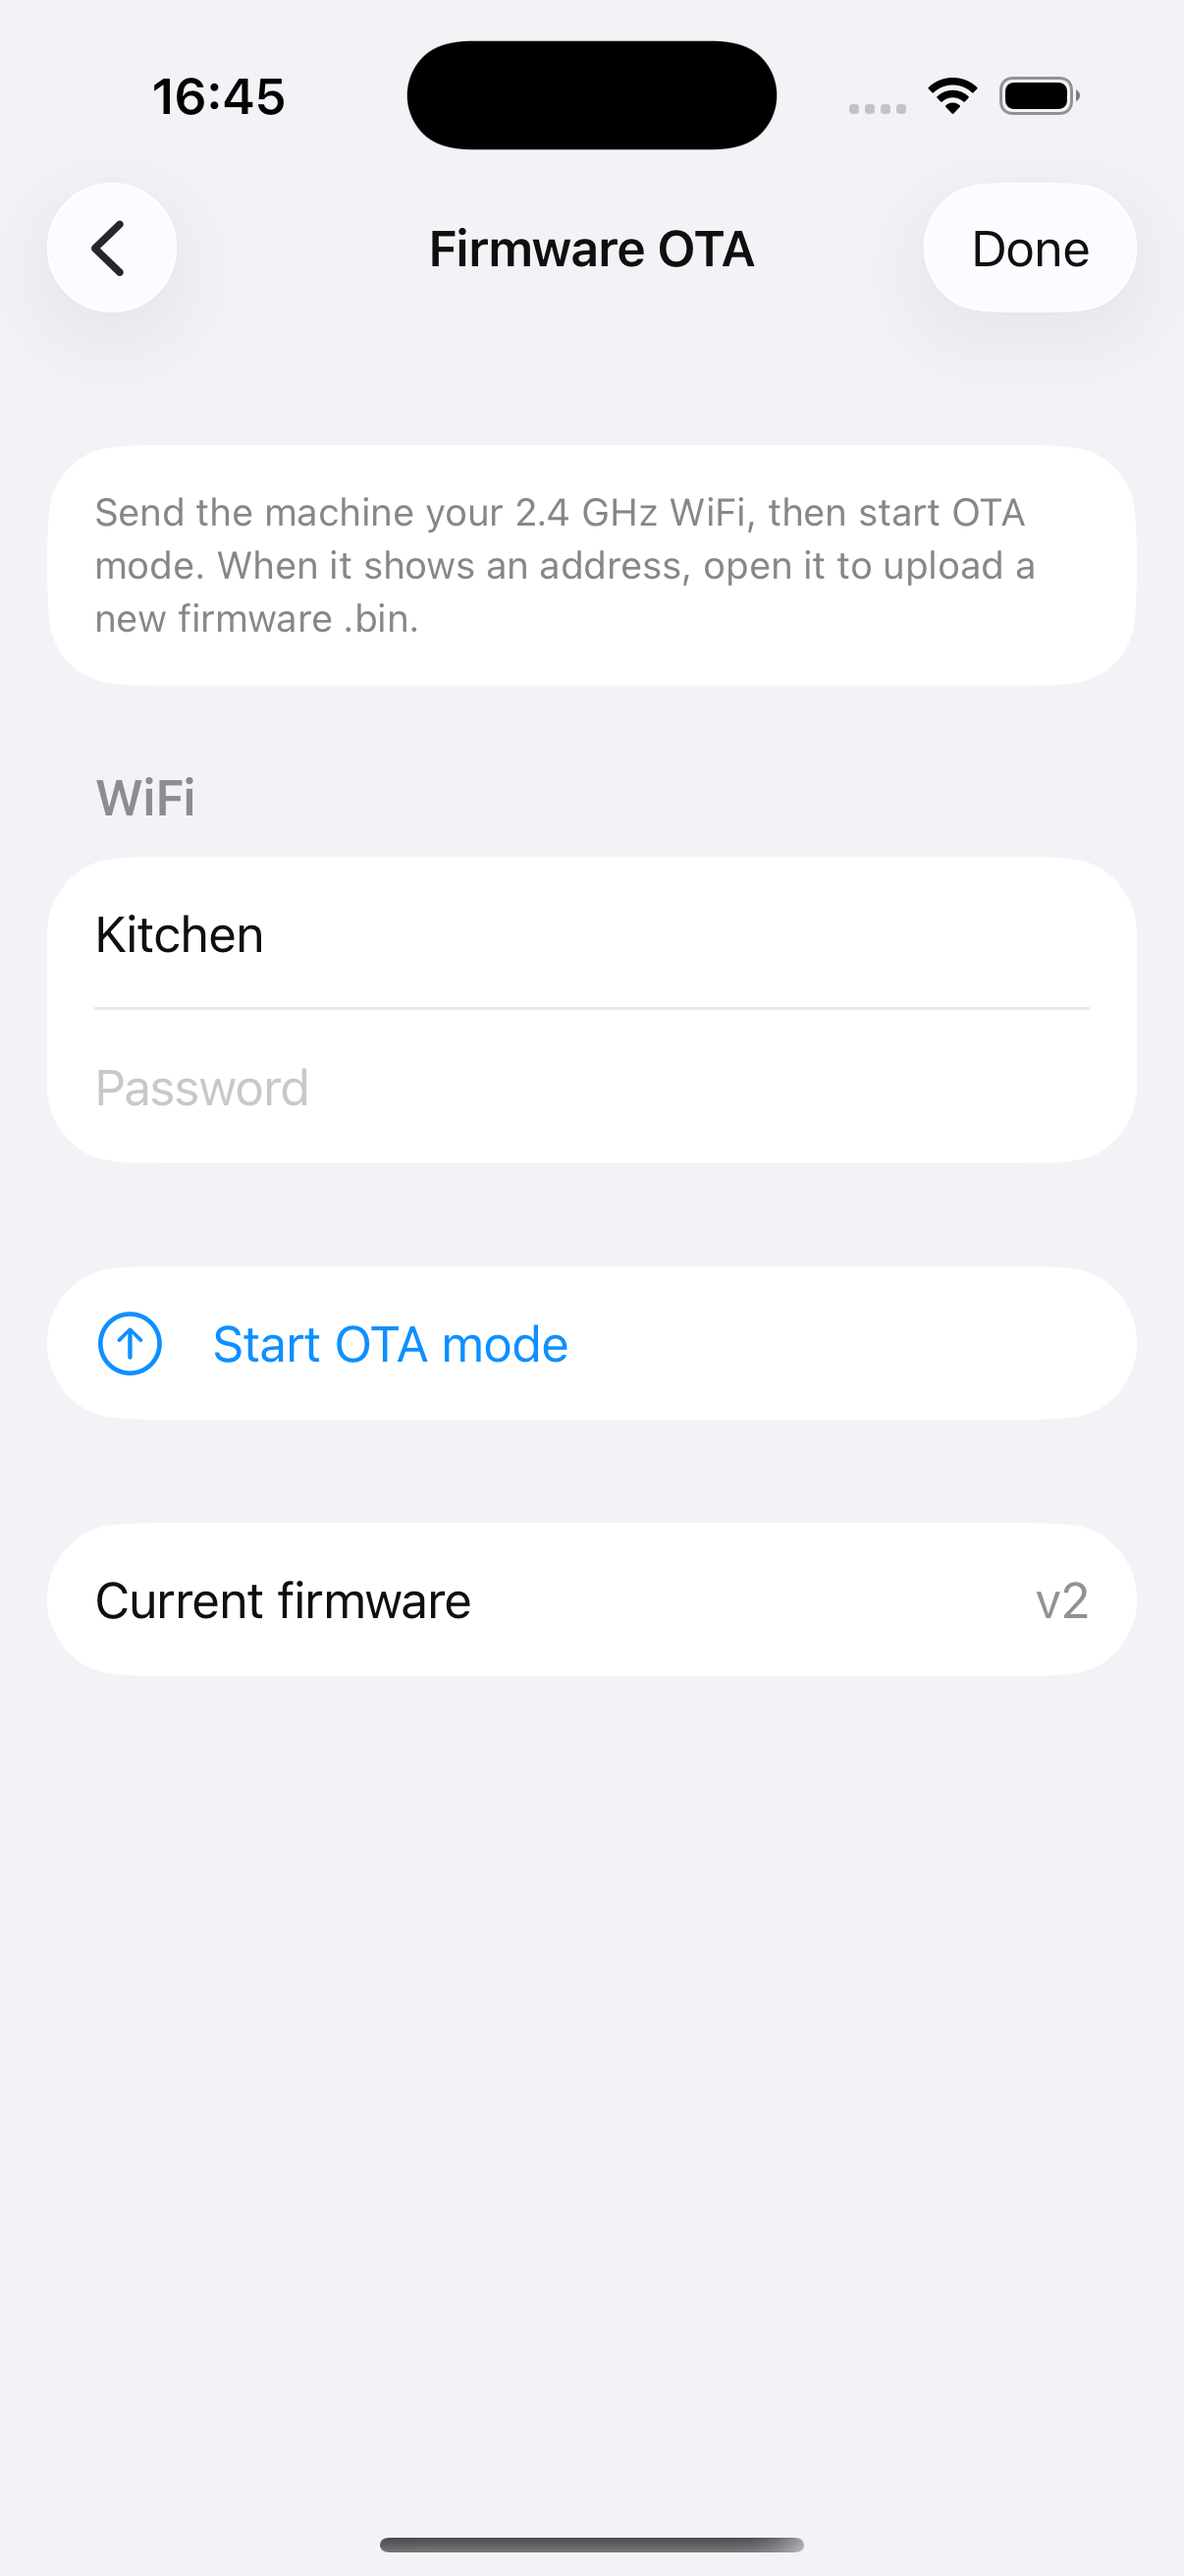
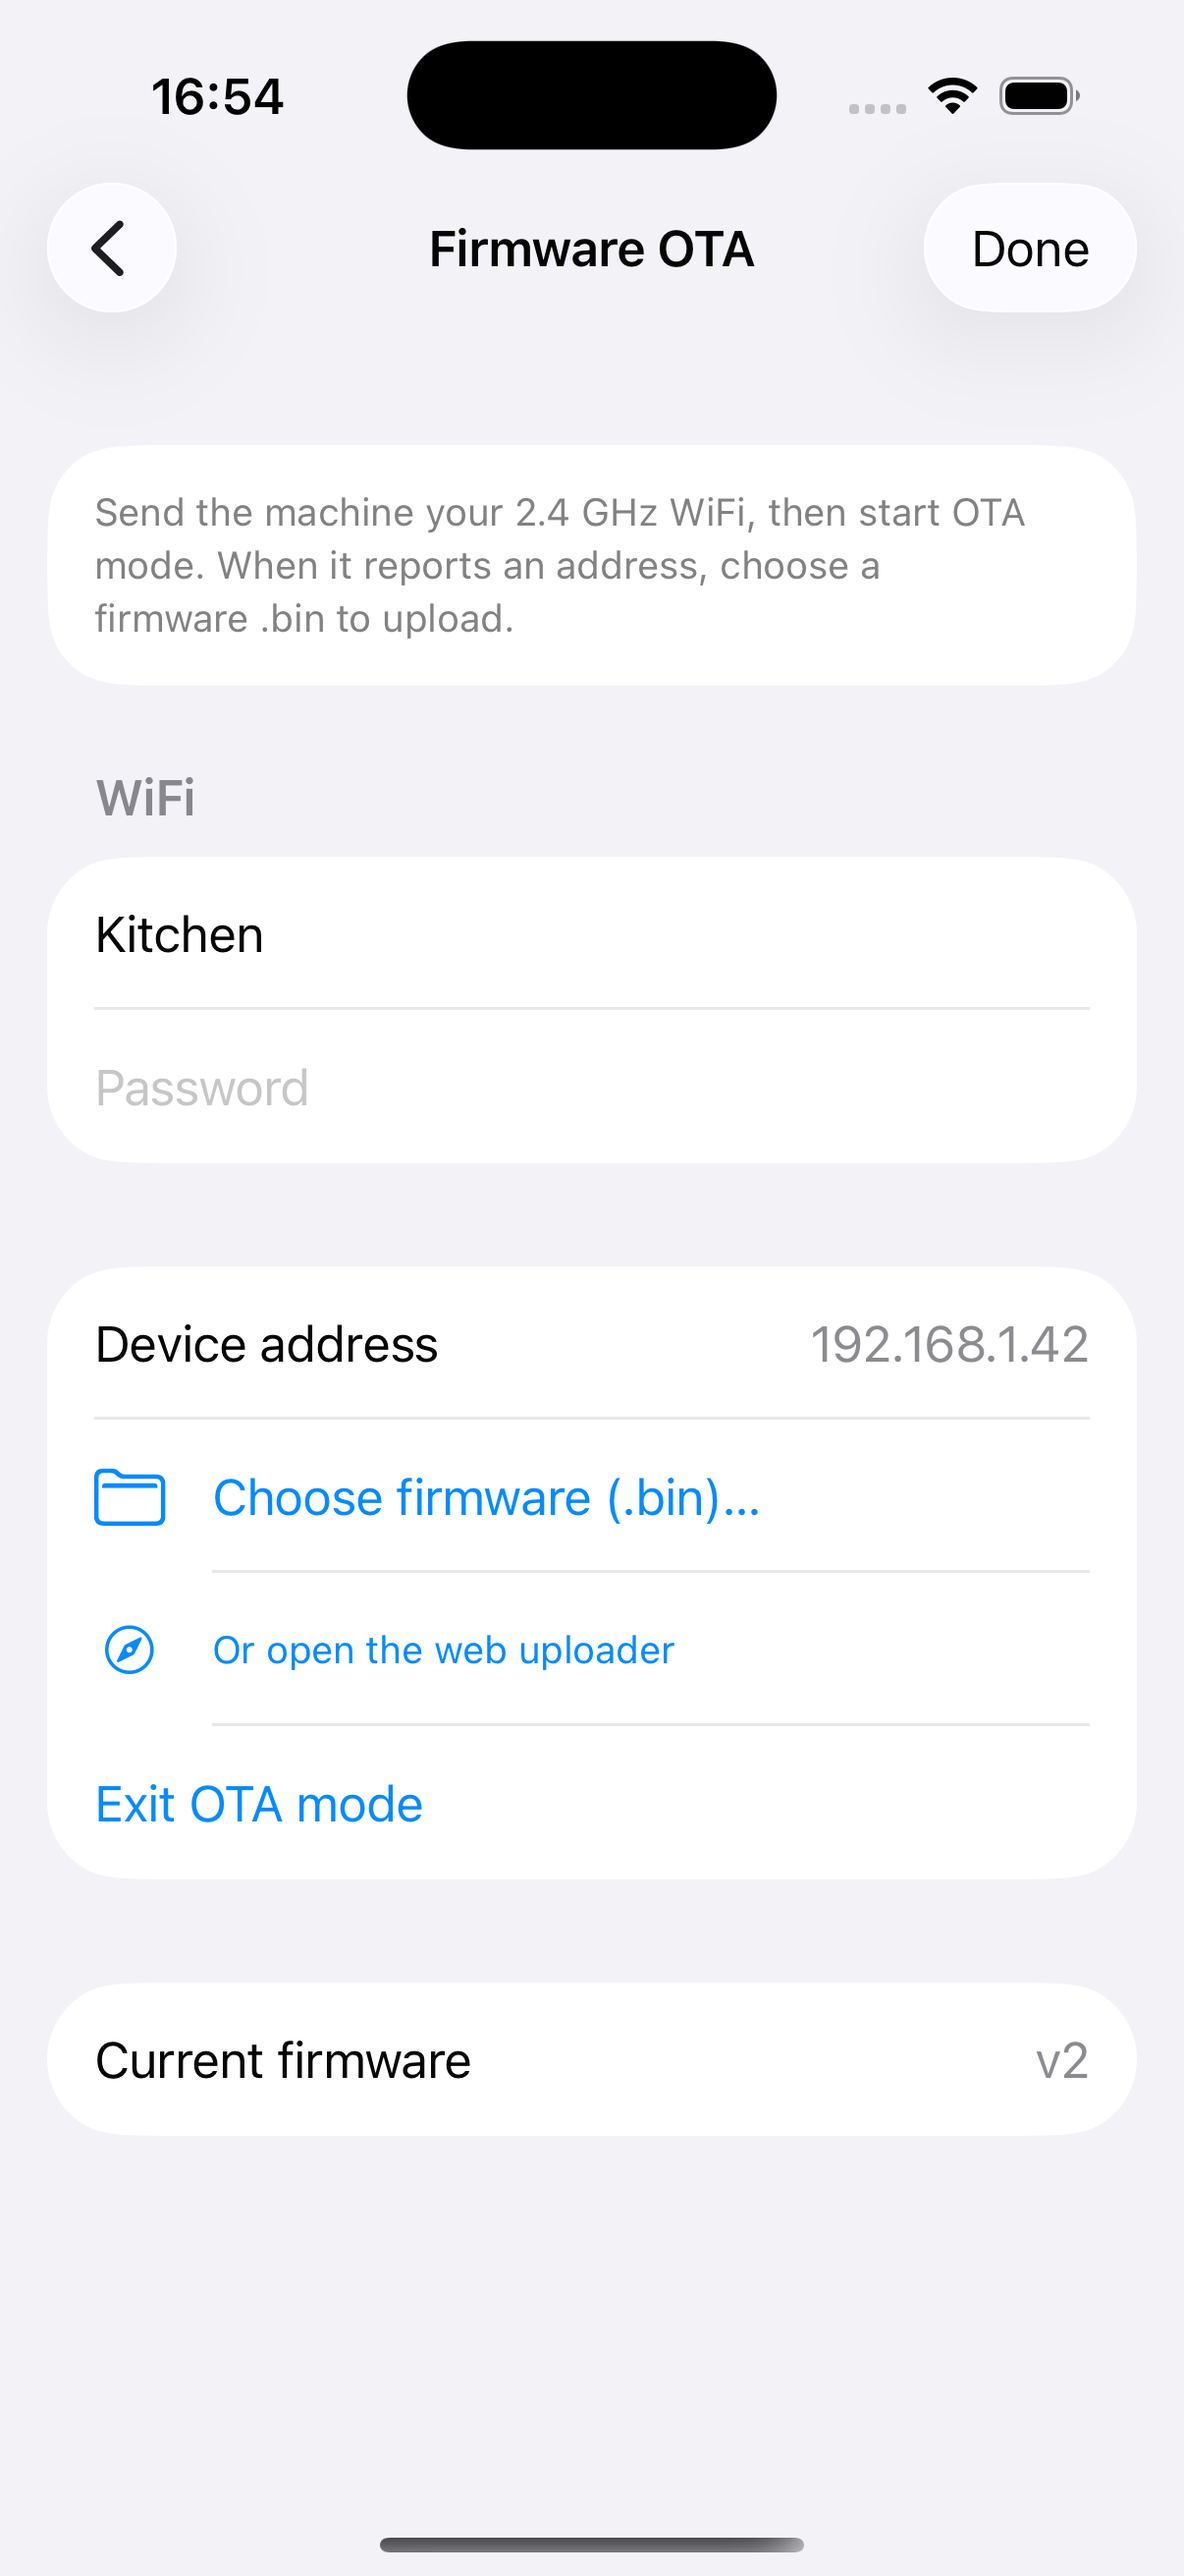
OTA: true in-app .bin upload from Files / iCloud Drive
- FirmwareUploader: builds the multipart/form-data body and POSTs the .bin to
  http://<device-ip>/update (the field name `update` the firmware expects),
  with upload progress via URLSessionTaskDelegate.
- OTAView: once the device reports its IP, pick a .bin via .fileImporter
  (Files / iCloud Drive) and upload in-app with progress + success/failure
  states; the browser uploader remains as a fallback.
- Info.plist: NSAllowsLocalNetworking + NSLocalNetworkUsageDescription so iOS
  permits the local-network HTTP upload (merged with the generated plist).
- multipartBody is nonisolated + unit-tested (smoke + 2 XCTest, 17 total).

Both targets build; app launches correctly (Info.plist merge verified). The
actual upload needs hardware/local WiFi; the multipart framing is tested.

diff --git a/app/ShotStopperTelemetry/OTAView.swift b/app/ShotStopperTelemetry/OTAView.swift
@@ -1,10 +1,10 @@
 import SwiftUI
+import UniformTypeIdentifiers
 import ShotTelemetryKit
 
-/// Firmware OTA flow. The firmware's updater is a WiFi web upload: we send the
-/// machine WiFi credentials and ask it to enter OTA mode; it joins the network,
-/// hosts an uploader, and reports its IP. The user then opens that page and
-/// uploads the new `.bin` from a browser.
+/// Firmware OTA flow. Send the machine WiFi credentials and ask it to enter OTA
+/// mode; it joins the network and reports its IP. Then pick a `.bin` from Files /
+/// iCloud Drive and the app uploads it straight to the device — no browser needed.
 struct OTAView: View {
     @Environment(AppModel.self) private var model
     @Environment(\.dismiss) private var dismiss
@@ -12,12 +12,16 @@ struct OTAView: View {
 
     @State private var ssid = ""
     @State private var password = ""
+    @State private var uploader = FirmwareUploader()
+    @State private var showImporter = false
+
+    private var deviceIP: String { client.settings.wifiIP }
 
     var body: some View {
         Form {
             Section {
                 Text("Send the machine your 2.4 GHz WiFi, then start OTA mode. "
-                     + "When it shows an address, open it to upload a new firmware .bin.")
+                     + "When it reports an address, choose a firmware .bin to upload.")
                     .font(.footnote)
                     .foregroundStyle(.secondary)
             }
@@ -28,20 +32,15 @@ struct OTAView: View {
                     .autocorrectionDisabled()
                 SecureField("Password", text: $password)
             }
+            .disabled(client.settings.otaRequested)
 
             Section {
                 if client.settings.otaRequested {
-                    if client.settings.wifiIP.isEmpty {
-                        HStack {
-                            ProgressView()
-                            Text("Connecting to WiFi…").foregroundStyle(.secondary)
-                        }
-                    } else if let url = URL(string: "http://\(client.settings.wifiIP)/") {
-                        Link(destination: url) {
-                            Label("Open uploader  (\(client.settings.wifiIP))", systemImage: "safari")
-                        }
+                    activeOTASection
+                    Button("Exit OTA mode", role: .cancel) {
+                        uploader.reset()
+                        client.setOTARequested(false)
                     }
-                    Button("Exit OTA mode", role: .cancel) { client.setOTARequested(false) }
                 } else {
                     Button {
                         client.setWiFi(ssid: ssid, password: password)
@@ -64,6 +63,61 @@ struct OTAView: View {
                 Button("Done") { dismiss() }
             }
         }
+        .fileImporter(isPresented: $showImporter, allowedContentTypes: binTypes) { result in
+            if case .success(let url) = result {
+                Task { await uploader.upload(fileURL: url, toIP: deviceIP) }
+            }
+        }
         .onAppear { ssid = client.settings.wifiSSID }
+    }
+
+    @ViewBuilder
+    private var activeOTASection: some View {
+        if deviceIP.isEmpty {
+            HStack {
+                ProgressView()
+                Text("Connecting to WiFi…").foregroundStyle(.secondary)
+            }
+        } else {
+            LabeledContent("Device address", value: deviceIP)
+
+            switch uploader.status {
+            case .idle:
+                Button {
+                    showImporter = true
+                } label: {
+                    Label("Choose firmware (.bin)…", systemImage: "folder")
+                }
+                if let url = URL(string: "http://\(deviceIP)/") {
+                    Link(destination: url) {
+                        Label("Or open the web uploader", systemImage: "safari")
+                            .font(.footnote)
+                    }
+                }
+
+            case .uploading(let fraction):
+                VStack(alignment: .leading, spacing: 6) {
+                    ProgressView(value: fraction)
+                    Text("Uploading… \(Int(fraction * 100))%")
+                        .font(.footnote).foregroundStyle(.secondary)
+                }
+
+            case .success:
+                Label("Update sent — the machine is restarting.", systemImage: "checkmark.circle.fill")
+                    .foregroundStyle(.green)
+
+            case .failed(let message):
+                VStack(alignment: .leading, spacing: 6) {
+                    Label("Upload failed", systemImage: "exclamationmark.triangle.fill")
+                        .foregroundStyle(.orange)
+                    Text(message).font(.footnote).foregroundStyle(.secondary)
+                    Button("Try again") { showImporter = true }
+                }
+            }
+        }
+    }
+
+    private var binTypes: [UTType] {
+        [UTType(filenameExtension: "bin") ?? .data, .data]
     }
 }

diff --git a/app/ShotTelemetryKit/Sources/ShotTelemetryKit/FirmwareUploader.swift b/app/ShotTelemetryKit/Sources/ShotTelemetryKit/FirmwareUploader.swift
@@ -1,0 +1,93 @@
+import Foundation
+
+/// Uploads a firmware `.bin` to the ShotStopper's web updater over local WiFi.
+///
+/// The firmware (OTASetup.h) hosts a multipart form POST at `/update` with the
+/// file field named `update` — the same upload its browser uploader does, just
+/// driven from the app so no browser is needed.
+@MainActor
+@Observable
+public final class FirmwareUploader: NSObject {
+
+    public enum Status: Equatable {
+        case idle
+        case uploading(Double)   // 0...1
+        case success
+        case failed(String)
+    }
+
+    public private(set) var status: Status = .idle
+
+    public func reset() { status = .idle }
+
+    /// POST the file at `fileURL` to `http://<ip>/update`. `fileURL` is typically a
+    /// security-scoped URL from the Files picker (iCloud Drive).
+    public func upload(fileURL: URL, toIP ip: String) async {
+        status = .uploading(0)
+
+        let scoped = fileURL.startAccessingSecurityScopedResource()
+        defer { if scoped { fileURL.stopAccessingSecurityScopedResource() } }
+
+        guard let fileData = try? Data(contentsOf: fileURL) else {
+            status = .failed("Couldn't read the selected file.")
+            return
+        }
+        guard !ip.isEmpty, let url = URL(string: "http://\(ip)/update") else {
+            status = .failed("The device hasn't reported an address yet.")
+            return
+        }
+
+        let boundary = "ShotStopperBoundary-\(UUID().uuidString)"
+        let body = Self.multipartBody(boundary: boundary, fieldName: "update",
+                                      fileName: fileURL.lastPathComponent, fileData: fileData)
+
+        var request = URLRequest(url: url)
+        request.httpMethod = "POST"
+        request.setValue("multipart/form-data; boundary=\(boundary)", forHTTPHeaderField: "Content-Type")
+        request.timeoutInterval = 180
+
+        do {
+            let (_, response) = try await URLSession.shared.upload(for: request, from: body, delegate: self)
+            if let http = response as? HTTPURLResponse, !(200..<300).contains(http.statusCode) {
+                status = .failed("Device returned HTTP \(http.statusCode).")
+            } else {
+                status = .success
+            }
+        } catch {
+            // A dropped connection right after the upload often means the device
+            // accepted it and rebooted; surface the raw error so the user can retry.
+            status = .failed(error.localizedDescription)
+        }
+    }
+
+    /// Build a `multipart/form-data` body for a single file field. Pure + testable.
+    public nonisolated static func multipartBody(boundary: String, fieldName: String, fileName: String, fileData: Data) -> Data {
+        var body = Data()
+        body.appendString("--\(boundary)\r\n")
+        body.appendString("Content-Disposition: form-data; name=\"\(fieldName)\"; filename=\"\(fileName)\"\r\n")
+        body.appendString("Content-Type: application/octet-stream\r\n\r\n")
+        body.append(fileData)
+        body.appendString("\r\n--\(boundary)--\r\n")
+        return body
+    }
+}
+
+extension FirmwareUploader: URLSessionTaskDelegate {
+    public nonisolated func urlSession(
+        _ session: URLSession,
+        task: URLSessionTask,
+        didSendBodyData bytesSent: Int64,
+        totalBytesSent: Int64,
+        totalBytesExpectedToSend: Int64
+    ) {
+        guard totalBytesExpectedToSend > 0 else { return }
+        let fraction = Double(totalBytesSent) / Double(totalBytesExpectedToSend)
+        MainActor.assumeIsolated {
+            if case .uploading = status { status = .uploading(fraction) }
+        }
+    }
+}
+
+private extension Data {
+    mutating func appendString(_ string: String) { append(Data(string.utf8)) }
+}

diff --git a/app/ShotTelemetryKit/Tests/ShotTelemetryKitTests/FirmwareUploaderTests.swift b/app/ShotTelemetryKit/Tests/ShotTelemetryKitTests/FirmwareUploaderTests.swift
@@ -1,0 +1,25 @@
+import XCTest
+@testable import ShotTelemetryKit
+
+final class FirmwareUploaderTests: XCTestCase {
+
+    func testMultipartBodyFraming() {
+        let payload = Data([0x01, 0x02, 0x03, 0xFF])
+        let body = FirmwareUploader.multipartBody(
+            boundary: "BND", fieldName: "update", fileName: "fw.bin", fileData: payload)
+        let text = String(decoding: body, as: UTF8.self)
+
+        XCTAssertTrue(text.hasPrefix("--BND\r\n"))
+        XCTAssertTrue(text.contains("Content-Disposition: form-data; name=\"update\"; filename=\"fw.bin\""))
+        XCTAssertTrue(text.contains("Content-Type: application/octet-stream\r\n\r\n"))
+        XCTAssertTrue(text.hasSuffix("\r\n--BND--\r\n"))
+    }
+
+    func testMultipartBodyEmbedsRawBytes() {
+        let payload = Data([0xDE, 0xAD, 0xBE, 0xEF])
+        let body = FirmwareUploader.multipartBody(
+            boundary: "B", fieldName: "update", fileName: "f.bin", fileData: payload)
+        // The 4 payload bytes appear contiguously somewhere in the body.
+        XCTAssertNotNil(body.range(of: payload))
+    }
+}

diff --git a/app/ShotTelemetryKit/Smoke/main.swift b/app/ShotTelemetryKit/Smoke/main.swift
@@ -108,5 +108,17 @@ do {
     check(back == shots, "bulk JSON array round-trips")
 }
 
+print("FirmwareUploader")
+do {
+    let payload = Data([0xDE, 0xAD, 0xBE, 0xEF])
+    let body = FirmwareUploader.multipartBody(boundary: "B", fieldName: "update", fileName: "fw.bin", fileData: payload)
+    let text = String(decoding: body, as: UTF8.self)
+    check(text.hasPrefix("--B\r\n"), "multipart starts with boundary")
+    check(text.contains("name=\"update\"; filename=\"fw.bin\""), "multipart has field + filename")
+    check(text.contains("Content-Type: application/octet-stream"), "multipart declares octet-stream")
+    check(text.hasSuffix("\r\n--B--\r\n"), "multipart ends with closing boundary")
+    check(body.contains(0xDE) && body.contains(0xEF), "multipart embeds the file bytes")
+}
+
 print(failures == 0 ? "\nALL PASSED" : "\n\(failures) FAILED")
 exit(failures == 0 ? 0 : 1)

diff --git a/app/ShotTelemetryKit/Sources/ShotTelemetryKit/ShotStopperClient.swift b/app/ShotTelemetryKit/Sources/ShotTelemetryKit/ShotStopperClient.swift
@@ -102,7 +102,8 @@ public final class ShotStopperClient: NSObject {
         var s = DeviceSettings()
         s.enabled = true; s.goalWeightG = 36; s.autoTare = true; s.momentary = false
         s.minShotDurationS = 5; s.maxShotDurationS = 50; s.dripDelayS = 3
-        s.firmwareVersion = 2; s.wifiSSID = "Kitchen"; s.wifiIP = ""
+        s.firmwareVersion = 2; s.wifiSSID = "Kitchen"
+        s.otaRequested = true; s.wifiIP = "192.168.1.42" // show the OTA upload UI in the Simulator
         settings = s
     }
 #endif

diff --git a/app/screenshots/README.md b/app/screenshots/README.md
@@ -12,7 +12,7 @@ device name and live data). Shot data here is from the built-in demo simulator.
 | `ios-3-history.png` | iPhone · History | List of saved shots (date · final weight · duration · target). Toolbar: Export (share) + DEBUG "Add Samples". |
 | `ios-4-detail-export.png` | iPhone · Shot detail | Weight-vs-time curve with dashed target line, summary grid, Export CSV / Export JSON buttons. |
 | `ios-5-settings.png` | iPhone · Settings | Read/write machine config over BLE: target weight, toggles, durations. (Disabled until connected on hardware.) |
-| `ios-6-ota.png` | iPhone · Firmware OTA | Send WiFi + start OTA mode, then open the device's web uploader to flash a new .bin. |
+| `ios-6-ota.png` | iPhone · Firmware OTA | Send WiFi + start OTA mode, then pick a .bin from Files / iCloud Drive and upload it to the device in-app (web-uploader fallback also shown). |
 | `watch-1-idle.png` | Watch · Kiosk (idle) | Big weight readout, compact time/flow/target row, chart. Strapless on the machine as an always-on display. |
 | `watch-2-pour.png` | Watch · Kiosk (recording) | Live pour: big weight, stats row, curve building to the target line. |
 

diff --git a/app/README.md b/app/README.md
@@ -16,7 +16,8 @@ app/
 │   ├── ShotHistoryView.swift           @Query list + "Export all" (combined CSV/JSON)
 │   ├── ShotDetailView.swift            saved-shot chart + CSV/JSON export
 │   ├── SettingsView.swift              read/write machine config over BLE
-│   ├── OTAView.swift                   WiFi handoff for firmware OTA
+│   ├── OTAView.swift                   firmware OTA: pick a .bin from Files, upload in-app
+│   ├── Info.plist                      ATS local-networking + local-network usage (for OTA upload)
 │   └── ShotStopperTelemetry.entitlements   iCloud/CloudKit container
 ├── ShotStopperTelemetryWatch/   watchOS kiosk target — SwiftUI
 │   ├── WatchApp.swift                  @main (shares SharedStore + AppModel)
